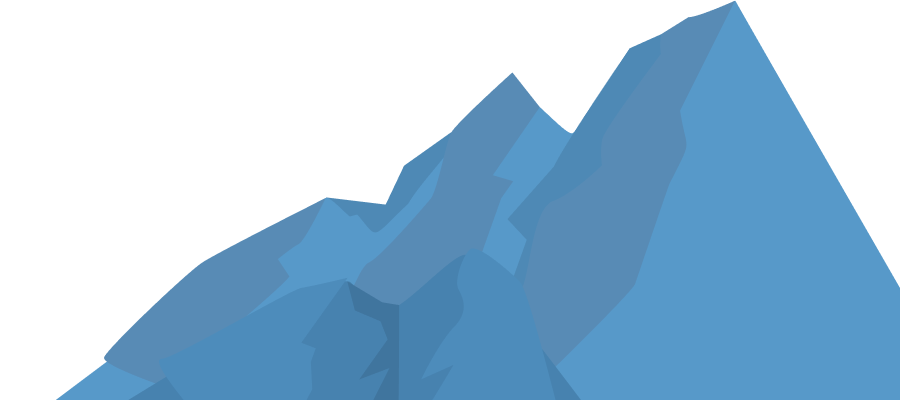
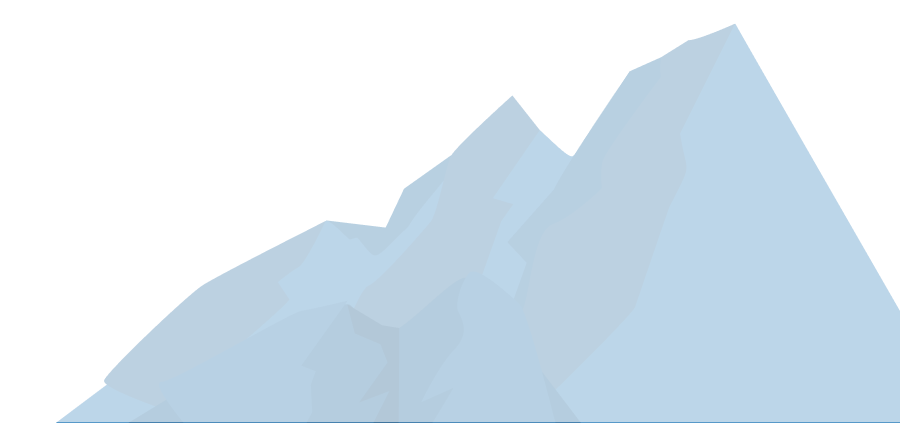
Playing around with various images.

diff --git a/src/assets/styles/divisions/mm-division-item.scss b/src/assets/styles/divisions/mm-division-item.scss
@@ -13,6 +13,8 @@
     width: 540px;
     transition: width $mm-timing-medium ease-in-out;
 
+    
+
     .base-mountain-zero {
         position: absolute;
         bottom: 0;
@@ -21,7 +23,7 @@
         z-index: 1;
 
         img {
-            opacity: 0.25;
+            opacity: 1;
             transform: translateX(-27rem) translateY(180px);
             transition: transform $mm-timing-medium ease-in-out, opacity $mm-timing-medium ease-in-out;
         }
@@ -35,7 +37,7 @@
         z-index: 2;
 
         img {
-            opacity: 0.25;
+            opacity: 0;
             transform: translateY(220px);
             transition: transform $mm-timing-medium ease-in-out, opacity $mm-timing-medium ease-in-out;
         }
@@ -110,16 +112,79 @@
     &:hover {
         width: 1000px;
 
+        &.devops {
+            .base-mountain-zero {
+                img {
+                    transform: translateX(-30rem) translateY(8.5rem);
+                    opacity: 1;
+                }
+            }
+
+            .base-mountain-one {
+                img {
+                    transform: translateX(-15rem) translateY(8rem) scale(1.5);
+                    opacity: 1;
+                }
+            }
+
+            .trees-one {
+                img {
+                    transform: translateX(5.5rem) translateY(6.5rem);
+                    transition: transform $mm-timing-medium ease-in-out;
+                }
+            }
+
+            .foreground {
+                img {
+                    transform: translateX(-10rem) translateY(3rem);
+                    transition: transform $mm-timing-medium ease-in-out;
+                }
+            }
+
+            .rock-one {
+                img {
+                    opacity: 1;
+                }
+            }
+
+            .explorer {
+                img {
+                    opacity: 1;
+                }
+            }
+
+            .masterminds-division-item-content {
+                .masterminds-division-item-blurb {
+                    opacity: 1;
+                    visibility: visible;
+                    /* Allows fading smoothly */
+                    transform: translateY(0);
+                    /* Moves into place */
+                }
+
+                img.mm-brain {
+                    transform: translateY(-10px);
+                    /* Moves up slightly */
+                }
+
+                .mm-button {
+                    transform: translateY(5px);
+                    /* Moves down slightly */
+                    opacity: 1;
+                }
+            }
+        }
+
         .base-mountain-zero {
             img {
-                transform: translateX(-1rem) translateY(1rem);
-                opacity: 0.1;
+                transform: translateX(-26rem) translateY(5.5rem);
+                opacity: 0.175;
             }
         }
 
         .base-mountain-one {
             img {
-                transform: translateX(-4rem) translateY(4rem);
+                transform: translateX(-4rem) translateY(1.5rem);
                 opacity: 0.5;
             }
         }
@@ -177,79 +242,85 @@
         }
     }
 
-    &.data {
-        &.contracted {
-            width: 540px;
-    
-            .base-mountain-zero {
-                img {
-                    transform: translateX() translateY(60px);
-                    opacity: 0.25;
-                }
-            }
-    
-            .foreground {
-                img {
-                    transform: scaleX(1.15) scaleY(1) translateX(-25.5rem) translateY(3.2rem);
-                    transition: transform $mm-timing-medium ease-in-out;
-                }
-            }
-    
-            .masterminds-division-item-content {
-                .masterminds-division-item-blurb {
-                    opacity: 0;
-                    visibility: hidden;
-                    transform: translateY(20px);
-                }
-    
-                img.mm-brain {
-                    transform: translateY(0);
-                }
-    
-                .mm-button {
-                    transform: translateY(0);
-                    opacity: 0;
-                }
-            }
-        }    
-    }
+    // &.data,
+    // &.contracted {
+    //     width: 540px;
 
-    &.analytics {
-        &.contracted {
-            width: 540px;
-    
-            .base-mountain-zero {
-                img {
-                    transform: translateX(-1.5rem) translateY(120px);
-                    opacity: 0.25;
-                }
-            }
-    
-            .foreground {
-                img {
-                    transform: scaleX(1.15) scaleY(1) translateX(-25.5rem) translateY(3.2rem);
-                    transition: transform $mm-timing-medium ease-in-out;
-                }
-            }
-    
-            .masterminds-division-item-content {
-                .masterminds-division-item-blurb {
-                    opacity: 0;
-                    visibility: hidden;
-                    transform: translateY(20px);
-                }
-    
-                img.mm-brain {
-                    transform: translateY(0);
-                }
-    
-                .mm-button {
-                    transform: translateY(0);
-                    opacity: 0;
-                }
-            }
-        }    
-    }
+    //     .base-mountain-zero {
+    //         img {
+    //             transform: translateX(-27rem) translateY(120px);
+    //             opacity: 0.25;
+    //         }
+    //     }
+
+    //     // .base-mountain-one {
+    //     //     img {
+    //     //         transform: translateY(220px);
+    //     //         opacity: 0.25;
+    //     //     }
+    //     // }
+
+    //     .foreground {
+    //         img {
+    //             transform: scaleX(1.15) scaleY(1) translateX(-25.5rem) translateY(3.2rem);
+    //             transition: transform $mm-timing-medium ease-in-out;
+    //         }
+    //     }
+
+    //     .masterminds-division-item-content {
+    //         .masterminds-division-item-blurb {
+    //             opacity: 0;
+    //             visibility: hidden;
+    //             transform: translateY(20px);
+    //         }
+
+    //         img.mm-brain {
+    //             transform: translateY(0);
+    //         }
+
+    //         .mm-button {
+    //             transform: translateY(0);
+    //             opacity: 0;
+    //         }
+    //     }
+    // }
+
+    // &.analytics {
+    //     &.contracted {
+    //         width: 540px;
+
+    //         .base-mountain-zero {
+    //             img {
+    //                 transform: translateX(-1.5rem) translateY(120px);
+    //                 opacity: 0.25;
+    //             }
+    //         }
+
+    //         .foreground {
+    //             img {
+    //                 transform: scaleX(1.15) scaleY(1) translateX(-25.5rem) translateY(3.2rem);
+    //                 transition: transform $mm-timing-medium ease-in-out;
+    //             }
+    //         }
+
+    //         .masterminds-division-item-content {
+    //             .masterminds-division-item-blurb {
+    //                 opacity: 0;
+    //                 visibility: hidden;
+    //                 transform: translateY(20px);
+    //             }
+
+    //             img.mm-brain {
+    //                 transform: translateY(0);
+    //             }
+
+    //             .mm-button {
+    //                 transform: translateY(0);
+    //                 opacity: 0;
+    //             }
+    //         }
+    //     }
+    // }
 
     // &.contracted {
     //     width: 540px;

diff --git a/src/components/divisions/DivisionItem.vue b/src/components/divisions/DivisionItem.vue
@@ -1,7 +1,7 @@
 <template>
     <div class="masterminds-division-item" :class="[divisionClass, isHover ? 'expanded' : isOtherHover ? 'contracted' : '']">
         <div class="base-mountain-zero">
-            <img src="../../assets/images/png/base-mountain.png" class="division-item" alt="Division Item Two">
+            <img src="../../assets/images/png/base-mountain-one.png" class="division-item" alt="Division Item Two">
         </div>
 
         <div class="base-mountain-one">

diff --git a/src/assets/styles/divisions/mm-division-item-content.scss b/src/assets/styles/divisions/mm-division-item-content.scss
@@ -20,7 +20,7 @@
         font-size: 1.2rem;
         font-weight: 300;
         opacity: 0;
-        padding: 1rem 0 1rem 0;
+        padding: 0 0 2rem 0;
         transition: opacity $mm-timing-medium ease-in-out;
         visibility: hidden;
         z-index: 7;
